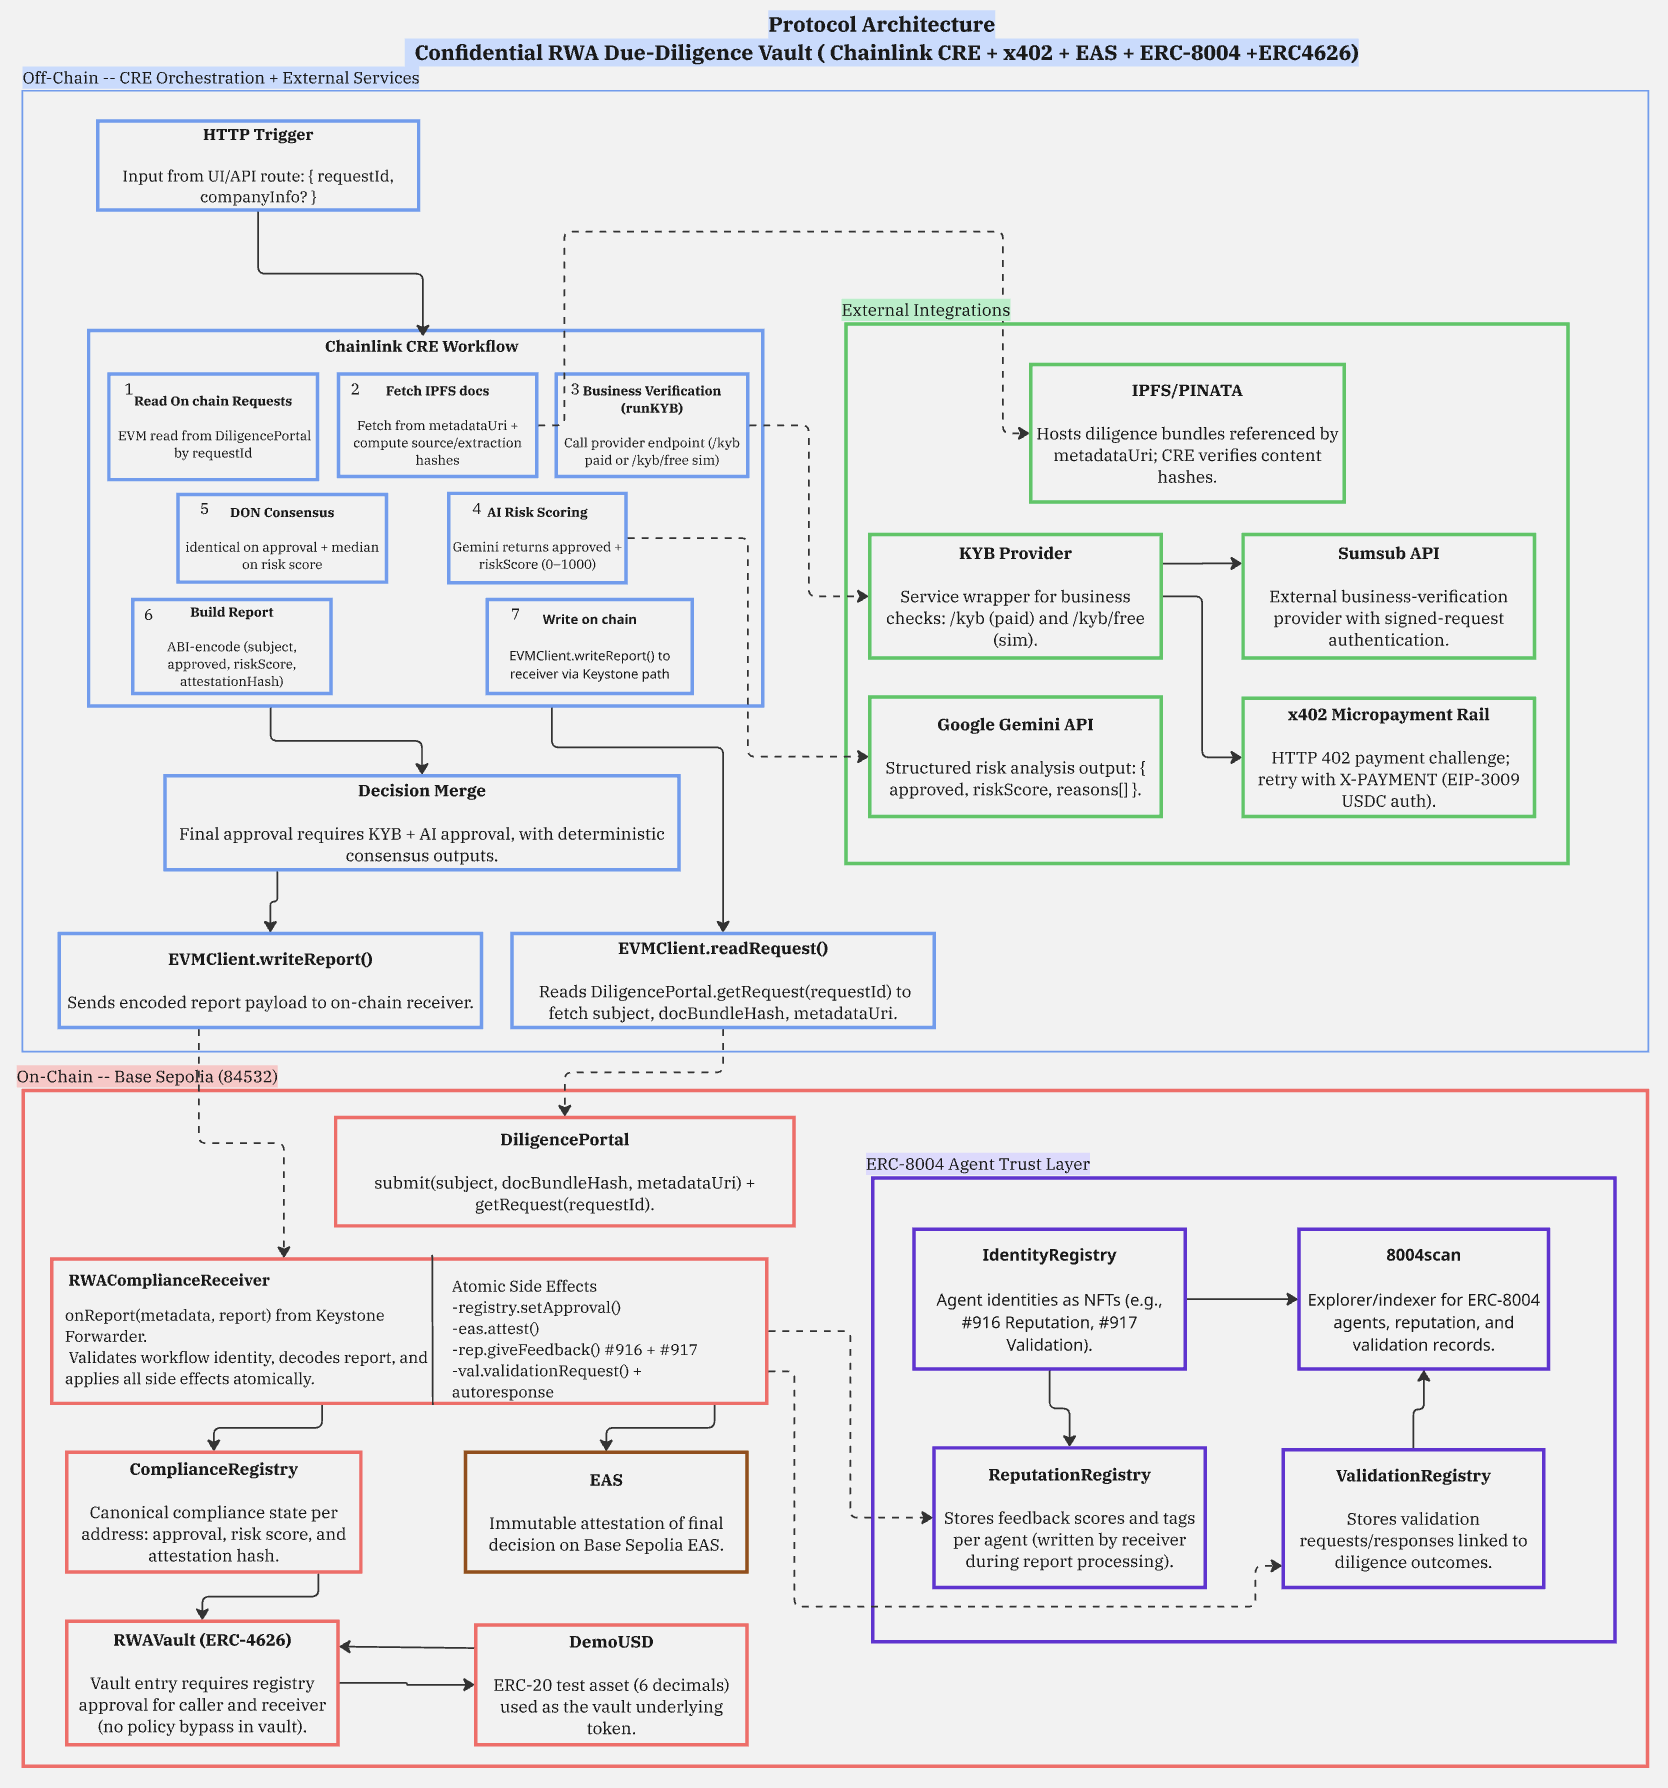
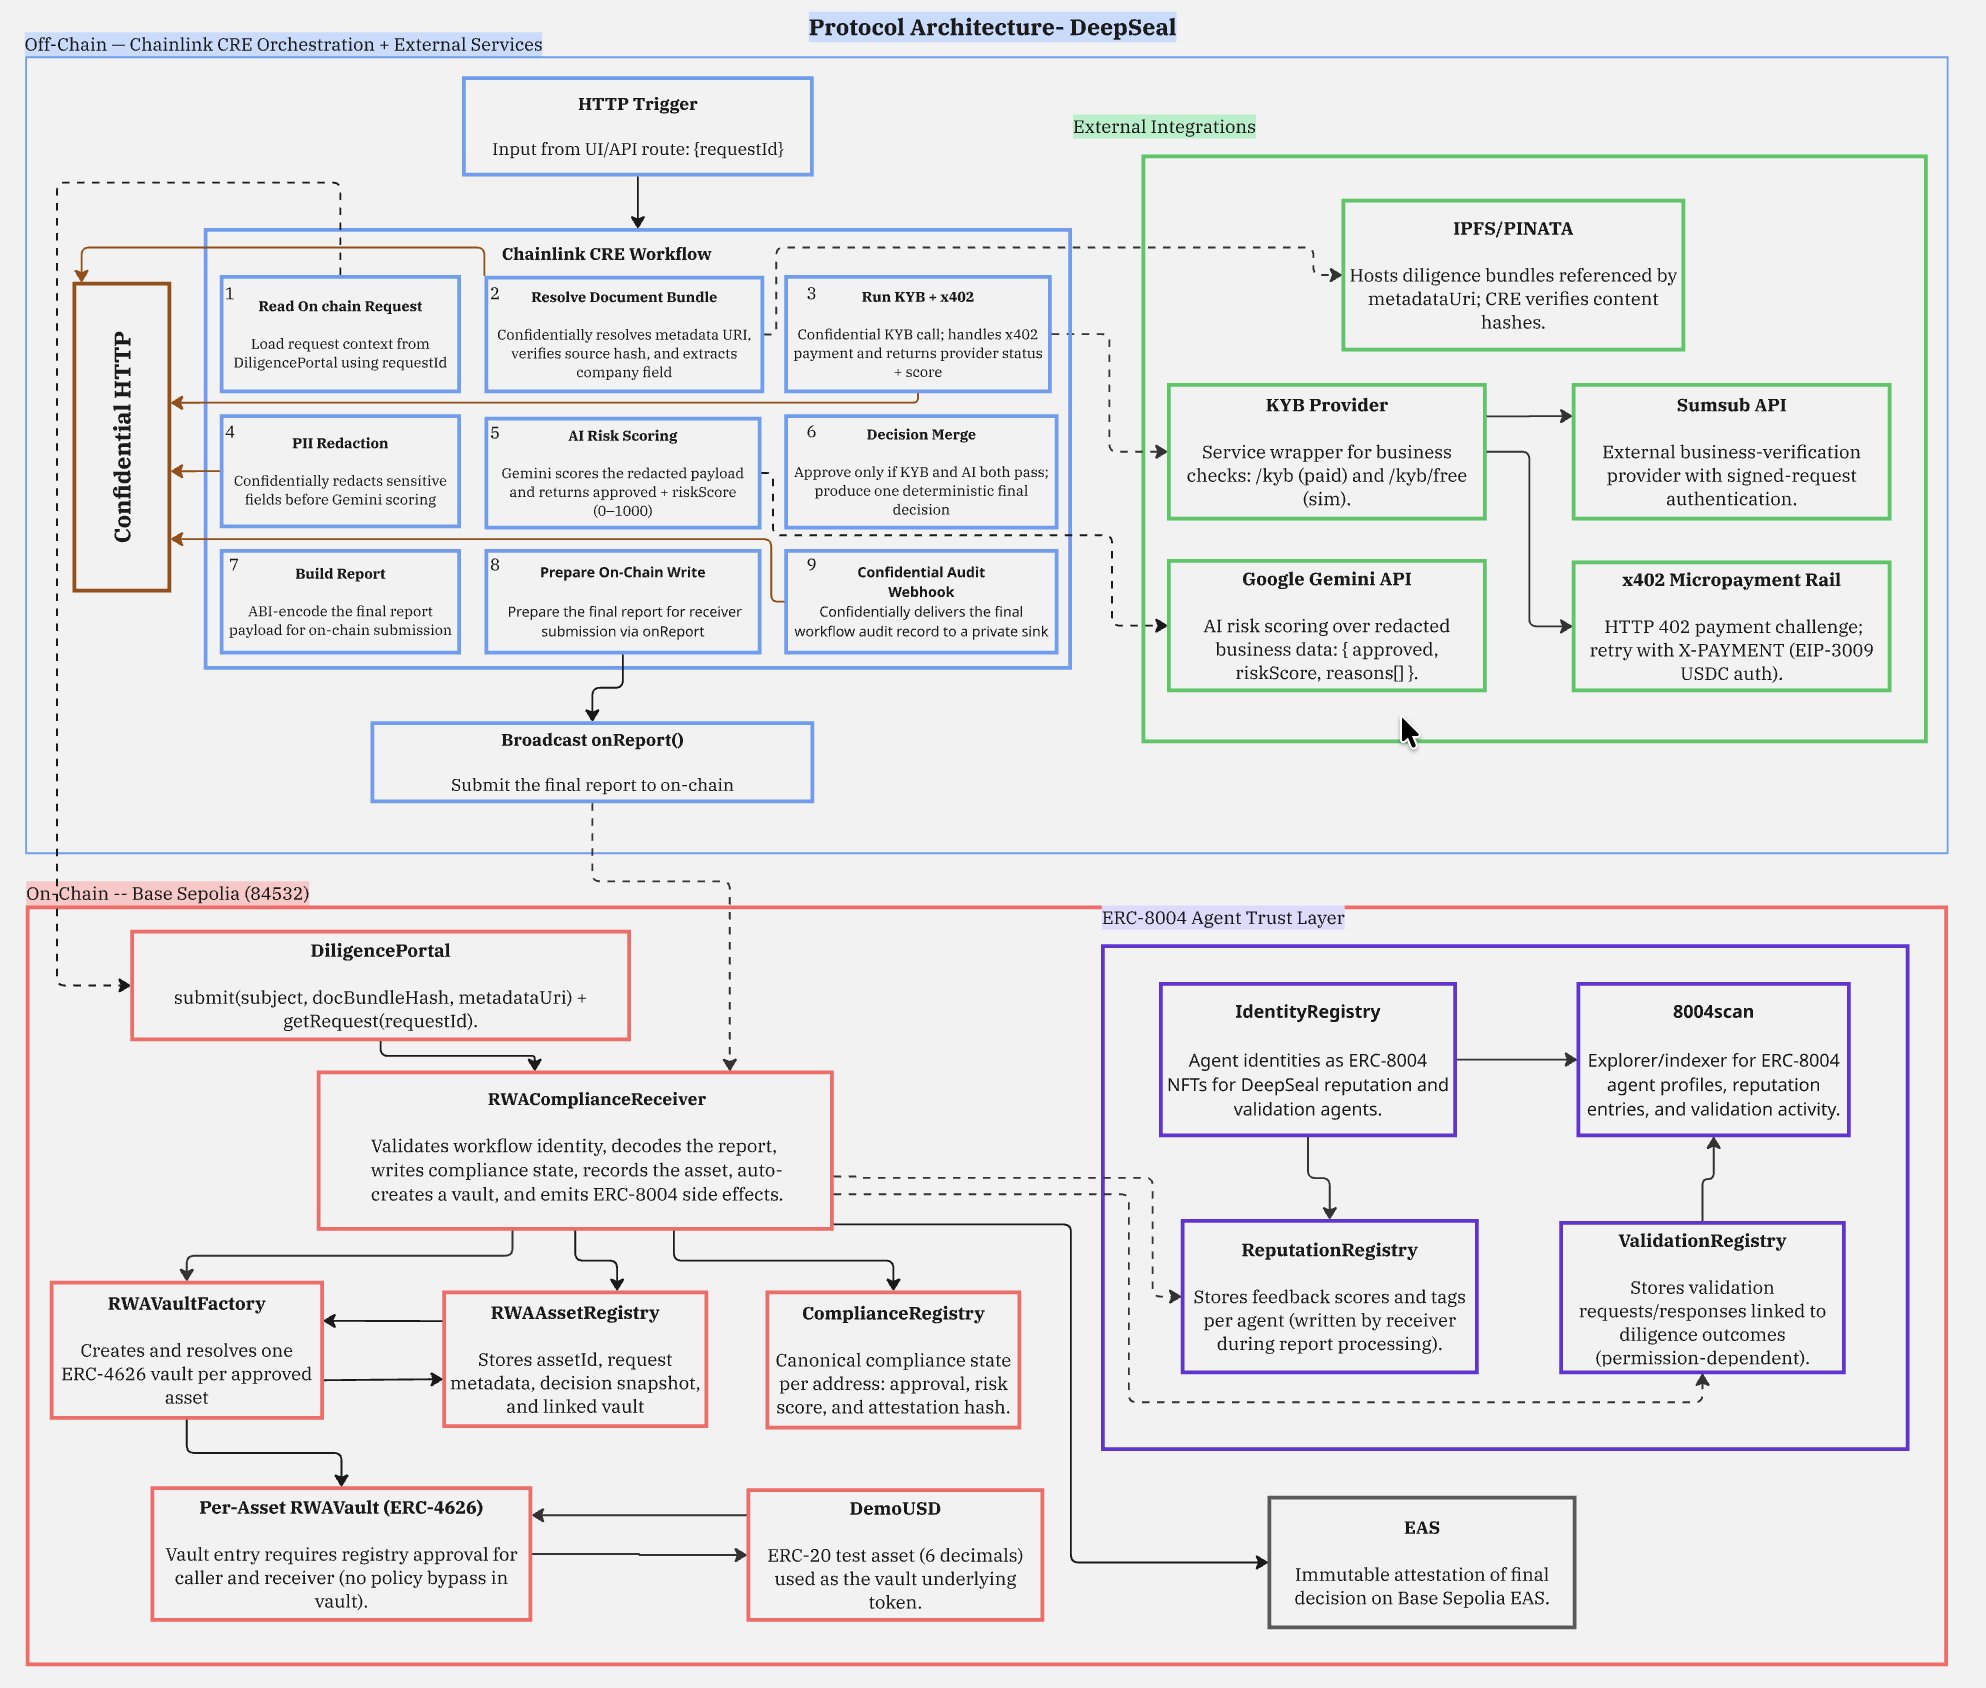
docs : update docs

Changed region(s): [[0.0, 0.0, 0.9976, 1.0]]

diff --git a/docs/base-sepolia-deployment.md b/docs/base-sepolia-deployment.md
@@ -25,8 +25,8 @@ This flow runs the full protocol on **real Base Sepolia** using CRE staging simu
 
 | Agent | ID | Name | 8004scan |
 |---|---|---|---|
-| Reputation Agent | `#916` | RWA Diligence Reputation Agent | [View](https://testnet.8004scan.io/agents/base-sepolia/916) |
-| Validation Agent | `#917` | RWA Diligence Validation Agent | [View](https://testnet.8004scan.io/agents/base-sepolia/917) |
+| Reputation Agent | `#1154` | RWA Diligence Reputation Agent | [View](https://testnet.8004scan.io/agents/base-sepolia/1154) |
+| Validation Agent | `#1155` | RWA Diligence Validation Agent | [View](https://testnet.8004scan.io/agents/base-sepolia/1155) |
 
[1 lines of base64/hex data omitted]
 
@@ -250,9 +250,9 @@ Key pages:
 
 ## 9) Check ERC-8004 agents on 8004scan
 
-- All agents: https://8004scan.vercel.app
-- Agent #916 (Reputation): https://8004scan.vercel.app
-- Agent #917 (Validation): https://8004scan.vercel.app
+- All agents: https://testnet.8004scan.io/agents/base-sepolia
+- Agent #1154 (Reputation): https://testnet.8004scan.io/agents/base-sepolia/1154
+- Agent #1155 (Validation): https://testnet.8004scan.io/agents/base-sepolia/1155
 
 ---
 

diff --git a/docs/implementation.md b/docs/implementation.md
@@ -36,12 +36,14 @@ This document is organized in two parts:
 | **Workflow docs** | `cre/chainlink-Convergence/my-workflow/README.md` | Complete | Workflow-specific setup and run notes. |
 
 ### CRE Workflow Features (Implemented)
-- HTTP trigger with `requestId` + optional `companyInfo`
+- HTTP trigger with `requestId` only
 - On-chain request read from `DiligencePortal`
 - Metadata document resolution + deterministic extraction hashes
 - x402 buyer flow (402 challenge → sign payment → retry)
 - Sumsub-backed KYB through provider endpoints
+- Confidential PII redaction before AI scoring
 - Gemini risk scoring with model fallback
+- Confidential audit webhook after workflow completion
 - `runtime.log()` observability for step-by-step tracing
 - On-chain report write path to `RWAComplianceReceiver`
 

diff --git a/docs/anvil-base-sepolia-e2e.md b/docs/anvil-base-sepolia-e2e.md
@@ -257,7 +257,7 @@ cast call "$FACTORY" "vaultByAssetId(bytes32)(address)" "$ASSET_ID" --rpc-url ht
 ```bash
 curl -sS -X POST http://127.0.0.1:3001/kyb/free \
   -H 'content-type: application/json' \
[2 lines of base64/hex data omitted]
 ```
 Copy `sumsub.applicantId`, then:
 ```bash
